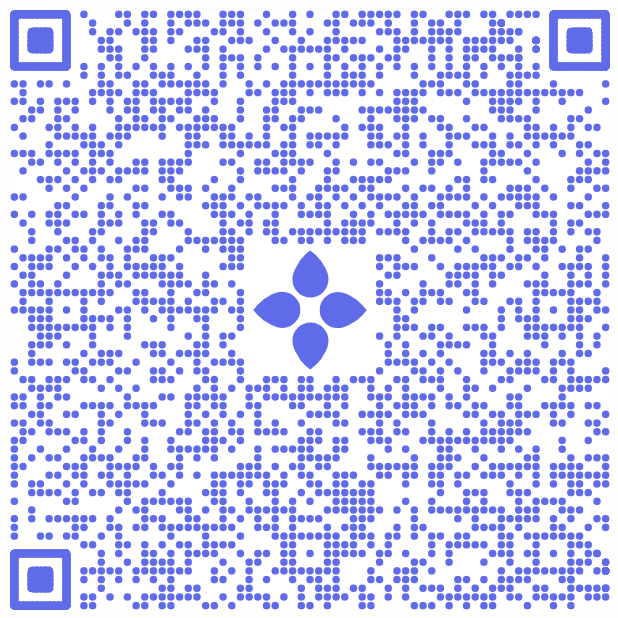
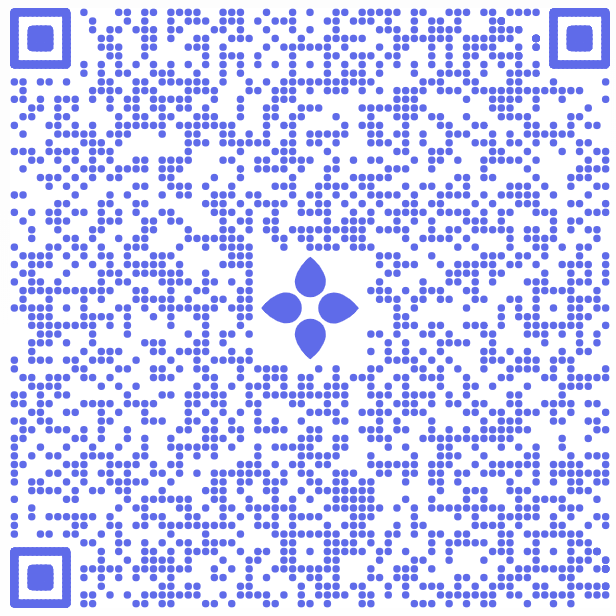
Release 2.1.1 HOTFIX (#25)

diff --git a/src/generateRequestQRCode.ts b/src/generateRequestQRCode.ts
@@ -147,8 +147,9 @@ const generateRequestQRCode = (canvas: HTMLCanvasElement, data: RequestData, opt
 
     const image = new Image()
     image.onload = () => {
-      const defaultRatio = size * 0.2 + cellSize * 0.33
-      const defaultWidth = defaultRatio + cellSize
+      const numberOfCellsToCover = Math.floor(cells.length * 0.2)
+      const addExtra = numberOfCellsToCover % 2 === 0
+      const defaultWidth = numberOfCellsToCover * cellSize + (addExtra ? cellSize : 0)
       const dwidth = options.logoWidth || defaultWidth
       const dheight = options.logoHeight || dwidth
       const dx = (size - dwidth) / 2

diff --git a/CHANGELOG.md b/CHANGELOG.md
@@ -1,3 +1,9 @@
+## 2.1.1 (HOTFIX)
+
+**Improvements**:
+
+- Fix default width calculation of logo image
+
 ## 2.1.0
 
 **New Features**:
